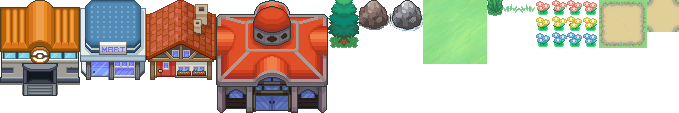
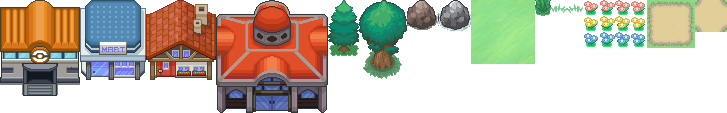
Bosques con robles y pinos, y combate reforzado en su estilo
Los bosques mezclan robles grandes y pinos enteros. El combate en vista
lateral usa ahora el suelo, el agua animada y los árboles del mapa nuevo,
suma efectos de la comunidad (columna de fuego, tromba, estallido
eléctrico, mandíbulas) y un golpe de cámara en cada impacto.

diff --git a/src/cutscenes.ts b/src/cutscenes.ts
@@ -11,17 +11,17 @@ const TEAM_HEX = ['#e8483c', '#3c7ce8']
 
 let scene: Scene
 let root: HTMLElement
-let tiles: HTMLImageElement
+let water: HTMLImageElement // autotile animado del mapa
 let pieces: HTMLImageElement
 let pieceAt: Record<string, { x: number; w: number; h: number }>
 
 export function initCutscenes(
-  el: HTMLElement, tileImg: HTMLImageElement, pieceImg: HTMLImageElement, pieceMeta: Record<string, { x: number; w: number; h: number }>,
+  el: HTMLElement, pieceImg: HTMLImageElement, pieceMeta: Record<string, { x: number; w: number; h: number }>, waterImg: HTMLImageElement,
 ) {
   root = el
-  tiles = tileImg
   pieces = pieceImg
   pieceAt = pieceMeta
+  water = waterImg
   scene = new Scene(el.querySelector('canvas')!, W, H)
 }
 
@@ -31,19 +31,33 @@ export interface Place { terrain: string; building?: { type: string; owner: numb
 
 const SKY = ['#58a8f0', '#70b8f4', '#90ccf8', '#b0dcf8', '#d0ecfc']
 const SUNSET = ['#e88858', '#f0a068', '#f4b880', '#f8d0a0', '#fce4c4']
-const LOOK: Record<string, { sky: string[]; hill: string; ground: number }> = {
-  '.': { sky: SKY, hill: '#58b888', ground: 1 },
-  '"': { sky: SKY, hill: '#58b888', ground: 1 },
-  T: { sky: SKY, hill: '#3c9464', ground: 1 },
-  M: { sky: SUNSET, hill: '#a87858', ground: 113 },
-  '~': { sky: SKY, hill: '#4890d8', ground: 161 },
-  s: { sky: SKY, hill: '#4890d8', ground: 161 },
-  '=': { sky: SKY, hill: '#58b888', ground: 289 },
-  B: { sky: SKY, hill: '#58b888', ground: 289 },
+const LOOK: Record<string, { sky: string[]; hill: string }> = {
+  '.': { sky: SKY, hill: '#58b888' },
+  '"': { sky: SKY, hill: '#58b888' },
+  T: { sky: SKY, hill: '#3c9464' },
+  M: { sky: SUNSET, hill: '#a87858' },
+  '~': { sky: SKY, hill: '#4890d8' },
+  s: { sky: SKY, hill: '#4890d8' },
+  '=': { sky: SKY, hill: '#58b888' },
+  B: { sky: SKY, hill: '#58b888' },
 }
 
-const tile = (ctx: CanvasRenderingContext2D, id: number, x: number, y: number) =>
-  ctx.drawImage(tiles, (id % 32) * 16, Math.floor(id / 32) * 16, 16, 16, x, y, 32, 32)
+/** Un tile de suelo del mapa (16 px) pintado a doble tamaño, según el terreno. */
+function groundTile(ctx: CanvasRenderingContext2D, terrain: string, x: number, y: number, time: number) {
+  if (terrain === '~' || terrain === 's') {
+    ctx.drawImage(water, (Math.floor(time / 110) % 32) * 48 + 16, 32, 16, 16, x, y, 32, 32)
+  } else if (terrain === '=' || terrain === 'B') {
+    ctx.drawImage(pieces, pieceAt.path.x + 16, 16, 16, 16, x, y, 32, 32)
+  } else {
+    ctx.drawImage(pieces, pieceAt.grass.x + (((x >> 5) % 4 + 4) % 4) * 16, ((y >> 5) % 4) * 16, 16, 16, x, y, 32, 32)
+  }
+}
+/** Una pieza del mapa (pino, roca…) a doble tamaño, apoyada en `baseY`. */
+function prop(ctx: CanvasRenderingContext2D, name: string, cx: number, baseY: number) {
+  const p = pieceAt[name]
+  ctx.drawImage(pieces, p.x, 0, p.w, p.h, Math.round(cx - p.w), baseY - p.h * 2, p.w * 2, p.h * 2)
+}
+const tallGrass = (ctx: CanvasRenderingContext2D, x: number, y: number) => ctx.drawImage(pieces, pieceAt.tall.x, 0, 16, 16, x, y, 32, 32)
 
 function backdrop(ctx: CanvasRenderingContext2D, place: Place, x0: number, w: number, time: number) {
   const look = LOOK[place.terrain] ?? LOOK['.']
@@ -61,24 +75,14 @@ function backdrop(ctx: CanvasRenderingContext2D, place: Place, x0: number, w: nu
     ctx.fillRect(x0 + x, HORIZON - h, 2, h)
   }
   const first = Math.floor(x0 / 32) * 32
-  for (let y = HORIZON; y < H; y += 32) for (let x = first; x < x0 + w; x += 32) tile(ctx, look.ground, x, y)
+  for (let y = HORIZON; y < H; y += 32) for (let x = first; x < x0 + w; x += 32) groundTile(ctx, place.terrain, x, y, time)
   // Lo que hay detrás del Pokémon según el terreno
   const mid = x0 + w / 2
   if (place.terrain === 'T') {
-    const tree = pieceAt.tree
-    for (let x = first; x < x0 + w; x += 64) ctx.drawImage(pieces, tree.x, 0, tree.w, tree.h, x, HORIZON - 78, 64, 96)
+    for (let x = first - 16; x < x0 + w + 32; x += 44) prop(ctx, (x / 44) % 2 < 1 ? 'oak' : 'tree', x, HORIZON + 14 + ((x / 44) % 3) * 4)
   }
-  if (place.terrain === 'M') {
-    for (const x of [mid - 70, mid + 14]) { tile(ctx, 104, x, HORIZON - 44); tile(ctx, 106, x + 32, HORIZON - 44); tile(ctx, 120, x, HORIZON - 12); tile(ctx, 122, x + 32, HORIZON - 12) }
-  }
-  if (place.terrain === '"') for (let x = first; x < x0 + w; x += 32) tile(ctx, 13, x, HORIZON - 6)
-  if (place.terrain === '~' || place.terrain === 's') {
-    ctx.fillStyle = '#ffffffc0'
-    for (let i = 0; i < 9; i++) {
-      const phase = Math.floor(time / 240 + i * 3) % 6
-      if (phase < 3) ctx.fillRect(x0 + ((i * 37) % w), HORIZON + 8 + ((i * 23) % 60), 8 - phase * 2, 2)
-    }
-  }
+  if (place.terrain === 'M') for (const x of [mid - 56, mid + 4, mid + 60]) prop(ctx, 'rock', x, HORIZON + 10)
+  if (place.terrain === '"') for (let x = first; x < x0 + w; x += 32) tallGrass(ctx, x, HORIZON - 6)
   if (place.building) { // el edificio real, a tamaño doble, detrás del Pokémon
     const piece = pieceAt[place.building.type]
     ctx.drawImage(pieces, piece.x, 0, piece.w, piece.h, mid - piece.w, HORIZON + 30 - piece.h * 2, piece.w * 2, piece.h * 2)
@@ -202,7 +206,8 @@ const MOVES: Record<PType, Move> = {
       scene.add({ x, y, vx: vx * rnd(0.6, 1), vy: vy - rnd(0, 1.2), max: ms, size: 4, colors: FIRE })
     })
     const [dx] = body(d)
-    for (let i = 0; i < 3; i++) scene.fx('fire_plume', dx + (i - 1) * 14, d.actor.y - 22, { delay: i * 70, fps: 12 })
+    scene.fx('p:fire', dx, d.actor.y - 34, { frame: 6, count: 8, fps: 13, scale: 1.1 }) // columna de fuego
+    scene.fx('p:fire', dx, d.actor.y - 20, { frame: 40, count: 5, fps: 14, scale: 1.2, delay: 60 })
     scene.burst(dx, d.actor.y - 20, 18, { colors: FIRE, speed: 2.4, up: 2, g: 0.05, size: 4, max: 600 })
   },
   water: async (a, d) => {
@@ -211,7 +216,8 @@ const MOVES: Record<PType, Move> = {
       if (Math.random() < 0.15) scene.add({ img: 'bubble', fps: 8, x, y, vx: vx * 0.9, vy: vy - 0.4, max: ms, scale: 2 })
     })
     const [dx, dy] = body(d)
-    scene.fx('splash', dx, dy - 4, { fps: 0, max: 320, scale: 1.4, grow: 1.5 })
+    scene.fx('p:water', dx, dy - 12, { frame: 8, count: 11, fps: 17, scale: 1 }) // tromba
+    scene.fx('p:water', dx, dy, { frame: 28, count: 13, fps: 22, scale: 1.3 })
     scene.fx('water_impact', dx, dy, { fps: 0, max: 260, grow: 1.6 })
     scene.burst(dx, dy, 22, { colors: ['#f0faff', '#88c8ff', '#3880e8'], speed: 3, up: 2.5, g: 0.22, size: 4, max: 700 })
   },
@@ -221,7 +227,7 @@ const MOVES: Record<PType, Move> = {
       scene.add({ x, y, vx, vy, max: ms, size: 4, colors: ['#fff', '#b8a0ff', '#6038e0'], add: true })
     })
     const [dx, dy] = body(d)
-    scene.fx('explosion', dx, dy, { fps: 12, scale: 2.5 })
+    scene.fx('p:explosions', dx, dy, { frame: 0, count: 4, fps: 12, scale: 1.4 })
   },
   grass: async (a, d) => {
     scene.play(a.actor, 'Swing')
@@ -238,7 +244,7 @@ const MOVES: Record<PType, Move> = {
       }))
     }
     await scene.wait(290)
-    scene.fx('cut', dx, dy, { fps: 16, flipX: a.sign < 0 })
+    scene.fx('p:slash', dx, dy, { frame: 5, count: 4, fps: 14, scale: 1.3, flipX: a.sign < 0 })
     for (let i = 0; i < 8; i++) scene.add({ img: 'leaf', fps: 16, loop: true, x: dx, y: dy, vx: rnd(-2.5, 2.5), vy: rnd(-3.5, -1), g: 0.15, max: 700, scale: 1 })
   },
   electric: async (a, d) => {
@@ -255,6 +261,7 @@ const MOVES: Record<PType, Move> = {
     }
     strike()
     void (async () => { for (let i = 0; i < 2; i++) { await scene.wait(110); strike() } })()
+    scene.fx('p:thunder', dx, dy - 8, { frame: 20, count: 6, fps: 15, scale: 1.4 }) // estallido eléctrico
     scene.fx('shock', dx, dy, { fps: 16 })
     scene.burst(dx, dy, 14, { colors: ['#fff', '#f8e050'], speed: 3.5, size: 2, max: 320 })
   },
@@ -284,39 +291,42 @@ const MOVES: Record<PType, Move> = {
     }
     await scene.wait(370)
     for (let i = 0; i < 9; i++) scene.add({ img: 'rocks', frame: 3 + (i % 3), x: dx, y: dy, vx: rnd(-3, 3), vy: rnd(-4, -1), g: 0.25, vr: 0.3, max: 650, scale: 2 })
+    scene.fx('p:rocksmash', dx, dy, { frame: 0, count: 6, fps: 14, scale: 1.2 })
     scene.fx('gray_smoke', dx, d.actor.y - 10, { fps: 10, scale: 2.5 })
   },
   normal: async (a, d) => {
     await dash(a, d)
     const [dx, dy] = body(d)
     scene.fx('slam_hit', dx - a.sign * 6, dy, { fps: 22, flipX: a.sign < 0, scale: 2.5 })
+    scene.fx('p:punches', dx, dy, { frame: 7, count: 1, fps: 0, max: 280, scale: 0.4, grow: 2.6 })
   },
   flying: async (a, d) => {
     await dash(a, d, 30)
     const [dx, dy] = body(d)
-    scene.fx('slash', dx, dy, { fps: 18, flipX: a.sign < 0, scale: 2.5 })
+    scene.fx('p:airslash', dx, dy, { frame: 0, count: 8, fps: 26, scale: 1.3, flipX: a.sign < 0 })
+    scene.fx('p:slash', dx, dy, { frame: 5, count: 4, fps: 16, scale: 1.3, flipX: a.sign < 0 })
     for (let i = 0; i < 7; i++) scene.add({ img: 'white_feather', frame: i % 2, x: dx, y: dy, vx: rnd(-2.5, 2.5), vy: rnd(-3, -0.5), g: 0.07, vr: rnd(-0.1, 0.1), max: 900, scale: 1.5 })
   },
   fighting: async (a, d) => {
     await dash(a, d)
     const [dx, dy] = body(d)
     scene.add({ img: 'red_fist', x: dx - a.sign * 16, y: dy, max: 300, scale: 4, grow: 0.6, flipX: a.sign < 0, fade: false })
-    scene.add({ img: 'punch_impact', x: dx, y: dy, max: 260, scale: 2, grow: 1.8 })
+    scene.fx('p:punches', dx, dy, { frame: 7, count: 1, fps: 0, max: 300, scale: 0.4, grow: 3 })
     scene.hitStop(60)
   },
   dark: async (a, d) => {
     await dash(a, d)
     const [dx, dy] = body(d)
-    const top = scene.add({ img: 'fangs', frame: 0, x: dx, y: dy - 44, max: 320, scale: 2.5, fade: false })
-    const bottom = scene.add({ img: 'fangs', frame: 1, x: dx, y: dy + 44, max: 320, scale: 2.5, fade: false })
-    await scene.tween(110, (t) => { top.y = dy - 44 + 34 * easeIn(t); bottom.y = dy + 44 - 34 * easeIn(t) })
+    scene.flashScreen('#3a1870', 0.45, 2)
+    scene.fx('p:crunch', dx, dy, { frame: 0, count: 12, fps: 30, scale: 0.85 }) // mandíbulas que se cierran
+    await scene.wait(230)
     scene.fx('purple_swipe', dx, dy, { fps: 9, scale: 1.6, flipX: a.sign < 0 })
   },
   steel: async (a, d) => {
     await dash(a, d)
     const [dx, dy] = body(d)
     for (let i = 0; i < 3; i++) scene.fx('claw_slash', dx - 12 + i * 12, dy - 8 + i * 8, { delay: i * 45, fps: 24, flipX: a.sign < 0, scale: 2.5 })
-    scene.fx('sparkle_4', dx, dy - 10, { fps: 14, delay: 100 })
+    scene.fx('p:ironhead', dx, dy, { frame: 0, count: 2, fps: 8, scale: 1.5, delay: 80 })
   },
 }
 
@@ -331,6 +341,7 @@ async function strike(a: Side, d: Side, dmg: number) {
   const [dx, dy] = body(d)
   const hpAfter = Math.max(0, d.hp - dmg)
   scene.hitStop(big ? 170 : 100)
+  scene.canvas.animate([{ transform: `scale(${big ? 1.12 : 1.06})` }, { transform: 'scale(1)' }], { duration: big ? 380 : 260, easing: 'cubic-bezier(0.2, 1.4, 0.4, 1)' })
   scene.addShake(big ? 10 : 5)
   if (big) scene.flashScreen('#fff', 0.85, 7)
   scene.fx('hit', dx, dy, { fps: 20, scale: big ? 3.5 : 2.5 })
@@ -470,7 +481,7 @@ export async function playBattle(b: BattleData) {
   scene.foreground = (ctx) => { // hierba alta por delante de los pies
     for (const [side, x0] of [[b.a, 0], [b.d, 128]] as const) {
       if (side.place.terrain !== '"' || slide > 0.02) continue
-      for (let x = x0; x < x0 + 128; x += 32) tile(ctx, 13, x, FEET - 18)
+      for (let x = x0; x < x0 + 128; x += 32) tallGrass(ctx, x, FEET - 18)
     }
   }
   left.actor.ox = -150
@@ -523,10 +534,13 @@ export async function playCapture(c: CaptureData) {
     }
     ctx.fillStyle = '#58b888'
     for (let x = -20; x < W + 20; x += 2) ctx.fillRect(x, 100 - 12 - Math.sin(x * 0.05) * 7 - Math.sin(x * 0.13) * 3, 2, 30)
-    for (let y = 100; y < H + 16; y += 16) for (let x = -32; x < W + 32; x += 16) ctx.drawImage(tiles, 16, 0, 16, 16, x, y, 16, 16)
+    for (let y = 100; y < H + 16; y += 16) {
+      for (let x = -32; x < W + 32; x += 16) ctx.drawImage(pieces, pieceAt.grass.x + (((x + 64) >> 4) % 4) * 16, ((y >> 4) % 4) * 16, 16, 16, x, y, 16, 16)
+    }
     for (let y = base; y < H + 16; y += 16) { // caminito de tierra hasta la puerta
-      ctx.drawImage(tiles, (288 % 32) * 16, Math.floor(288 / 32) * 16, 16, 16, left + 8, y, 16, 16)
-      ctx.drawImage(tiles, (290 % 32) * 16, Math.floor(290 / 32) * 16, 16, 16, left + 24, y, 16, 16)
+      const mid = Math.round(bx - 16)
+      ctx.drawImage(pieces, pieceAt.path.x, 16, 16, 16, mid, y, 16, 16)
+      ctx.drawImage(pieces, pieceAt.path.x + 32, 16, 16, 16, mid + 16, y, 16, 16)
     }
     for (const x of [-6, 26, 200, 232]) ctx.drawImage(pieces, tree.x, 0, tree.w, tree.h, x, 112 - tree.h + (x % 3) * 4, tree.w, tree.h)
     ctx.save()

diff --git a/src/main.ts b/src/main.ts
@@ -55,7 +55,6 @@ const restart = (el: Element, cls: string) => {
 
 // ---------- Sprites del mapa ----------
 
-let tiles: HTMLImageElement
 let species: string[] = [] // orden de las hojas de Esmeralda (iconos, frente y espalda)
 let atlas: HTMLImageElement // edificios, árbol, rocas y tiles de suelo
 let at: Record<string, { x: number; w: number; h: number }> = {}
@@ -150,7 +149,7 @@ function makeTerrainLayer(g: Game) {
   for (let y = 0; y < g.h; y++) {
     for (let x = 0; x < g.w; x++) {
       const ch = g.tiles[y][x]
-      if (ch === 'T') { forestCells.push({ x, y }); piece('tree', x, y) }
+      if (ch === 'T') { forestCells.push({ x, y }); piece(hash(x * 3 + 1, y * 5 + 2) < 0.5 ? 'oak' : 'tree', x, y) }
       if (ch === 'M') piece('rock', x, y)
       if (ch === 's') piece('stone', x, y)
     }
@@ -1350,12 +1349,11 @@ muteBtn.onclick = () => { toggleMute(); muteBtn.innerHTML = `Sonido: ${muted ? '
 $('#new').onclick = () => { if (mode !== 'busy') newGame() }
 
 async function boot() {
-  const [tileImg, atlasImg, waterImg, atlasMeta, names] = await Promise.all([
-    loadImage('/assets/tiles_general.png'), loadImage('/assets/map/atlas.png'), loadImage('/assets/map/water.png'),
+  const [atlasImg, waterImg, atlasMeta, names] = await Promise.all([
+    loadImage('/assets/map/atlas.png'), loadImage('/assets/map/water.png'),
     fetch('/assets/map/atlas.json').then((r) => r.json()),
     fetch('/assets/species.json').then((r) => r.json()), loadUnits(), loadFx(),
   ])
-  tiles = tileImg
   species = names
   atlas = atlasImg
   at = atlasMeta
@@ -1364,7 +1362,7 @@ async function boot() {
   canvas.height = MAP.length * T
   mapFx = new Scene(mapFxCanvas, canvas.width, canvas.height)
   mapFx.start()
-  initCutscenes(sceneEl, tiles, atlas, at)
+  initCutscenes(sceneEl, atlas, at, water)
   resize()
   aiBtn.textContent = 'Azul: IA'
   powerBtn.textContent = '★ Poder del comandante'

diff --git a/src/scene.ts b/src/scene.ts
@@ -7,14 +7,17 @@ let fxMeta: Record<string, FxMeta> = {}
 const fxImages = new Map<string, HTMLImageElement>()
 
 export async function loadFx() {
-  fxMeta = await fetch('/assets/fx/fx.json').then((r) => r.json())
-  await Promise.all(Object.keys(fxMeta).map((name) => new Promise<void>((resolve, reject) => {
+  const load = (name: string, file: string) => new Promise<void>((resolve, reject) => {
     const img = new Image()
     img.onload = () => resolve()
     img.onerror = reject
-    img.src = `/assets/fx/${name}.png`
+    img.src = `/assets/fx/${file}`
     fxImages.set(name, img)
-  })))
+  })
+  // Efectos de Esmeralda (fotogramas apilados) y hojas de la comunidad (en rejilla)
+  const [emerald, sheets] = await Promise.all(['fx.json', 'sheets.json'].map((f) => fetch('/assets/fx/' + f).then((r) => r.json())))
+  fxMeta = { ...emerald, ...sheets }
+  await Promise.all([...Object.keys(emerald).map((n) => load(n, n + '.png')), ...Object.keys(sheets).map((n) => load(n, sheets[n].file))])
 }
 
 /** Añade una hoja de efectos ya cargada (las de la comunidad van en rejilla). */

diff --git a/tools/extract_map.py b/tools/extract_map.py
@@ -18,13 +18,17 @@ BASE = "https://raw.githubusercontent.com/infinitefusion/infinitefusion-e18/mast
 # nombre -> (columna, fila, columnas, filas) en tiles de 16 px del tileset; `trim` recorta lo transparente
 PIECES = {
     "center": (3, 203, 5, 6), "mart": (0, 232, 5, 5), "house": (0, 237, 5, 5), "gym": (0, 912, 8, 8),
-    "tree": (2, 1076, 2, 3), "rock": (0, 114, 2, 2), "stone": (2, 10, 2, 2),
+    "tree": (2, 1075, 2, 4), "oak": (0, 197, 3, 5), "rock": (0, 114, 2, 2), "stone": (2, 10, 2, 2),
 }
 TILES = {
     "grass": (0, 20, 4, 4), "tall": (4, 103, 1, 1), "tufts": (2, 102, 2, 1),
     "flowers": (0, 107, 4, 3),  # tres colores (filas), cuatro fotogramas cada uno
     "path": (3, 1081, 3, 3), "pathInner": (6, 1081, 2, 2),
 }
+# Hojas de efectos de ataque de la comunidad (celdas de 192x192) que refuerzan el combate
+SHEETS = {"fire": "PRAS- Fire", "water": "PRAS- Water", "thunder": "Thunder2", "crunch": "Crunch", "slash": "PRAS- Slash",
+          "rocksmash": "PRAS- Rock Smash", "punches": "punches", "explosions": "PRAS- Explosions", "ironhead": "PRAS- Iron Head",
+          "airslash": "PRAS- Air Slash"}
 WATER = "Autotiles/ocean-SHORE.png"  # autotile animado de RPG Maker XP: 32 fotogramas de 96x128
 
 
@@ -56,7 +60,15 @@ def main():
         json.dump(meta, f)
     water = Image.open(fetch(WATER)).convert("RGBA")
     water.resize((water.width // 2, water.height // 2), Image.NEAREST).save(os.path.join(OUT, "water.png"))
-    print(meta, water.size)
+    fx = os.path.join(ROOT, "public", "assets", "fx")
+    sheets = {}
+    for short, name in SHEETS.items():
+        im = Image.open(fetch("Animations/" + name + ".png")).convert("RGBA")
+        im.save(os.path.join(fx, "pras-%s.png" % short))
+        sheets["p:" + short] = {"file": "pras-%s.png" % short, "w": 192, "h": 192, "cols": im.width // 192, "n": (im.width // 192) * (im.height // 192)}
+    with open(os.path.join(fx, "sheets.json"), "w") as f:
+        json.dump(sheets, f)
+    print(meta)
 
 
 if __name__ == "__main__":
